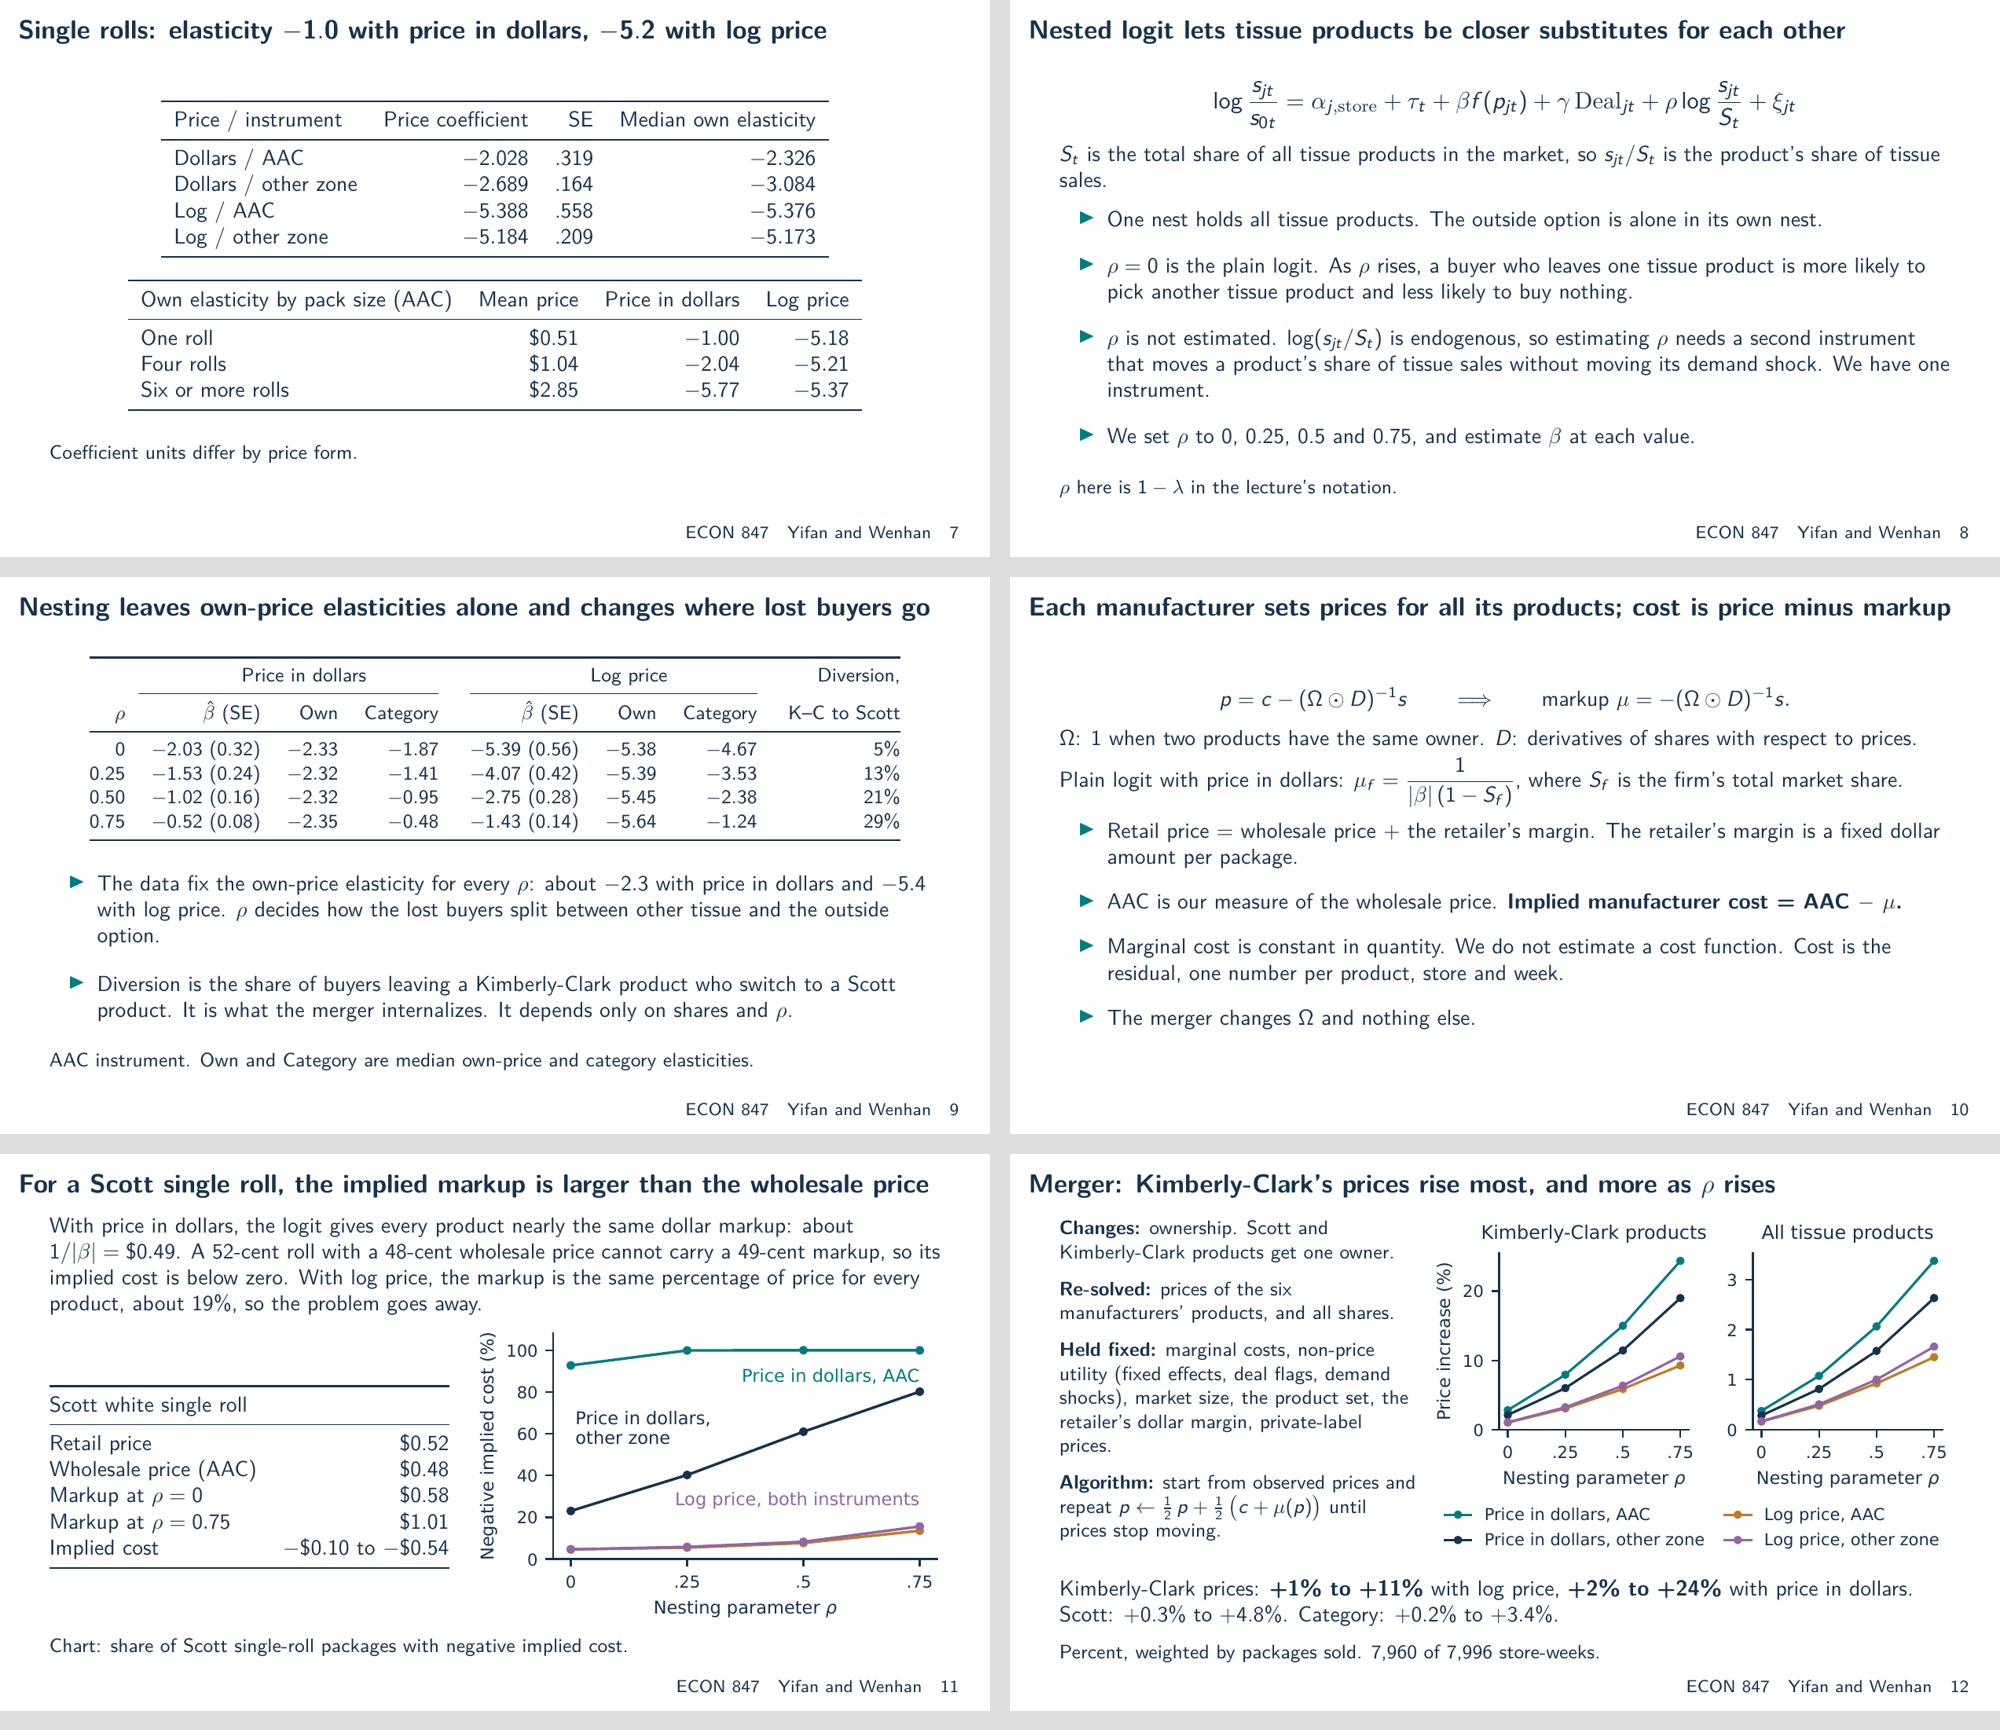
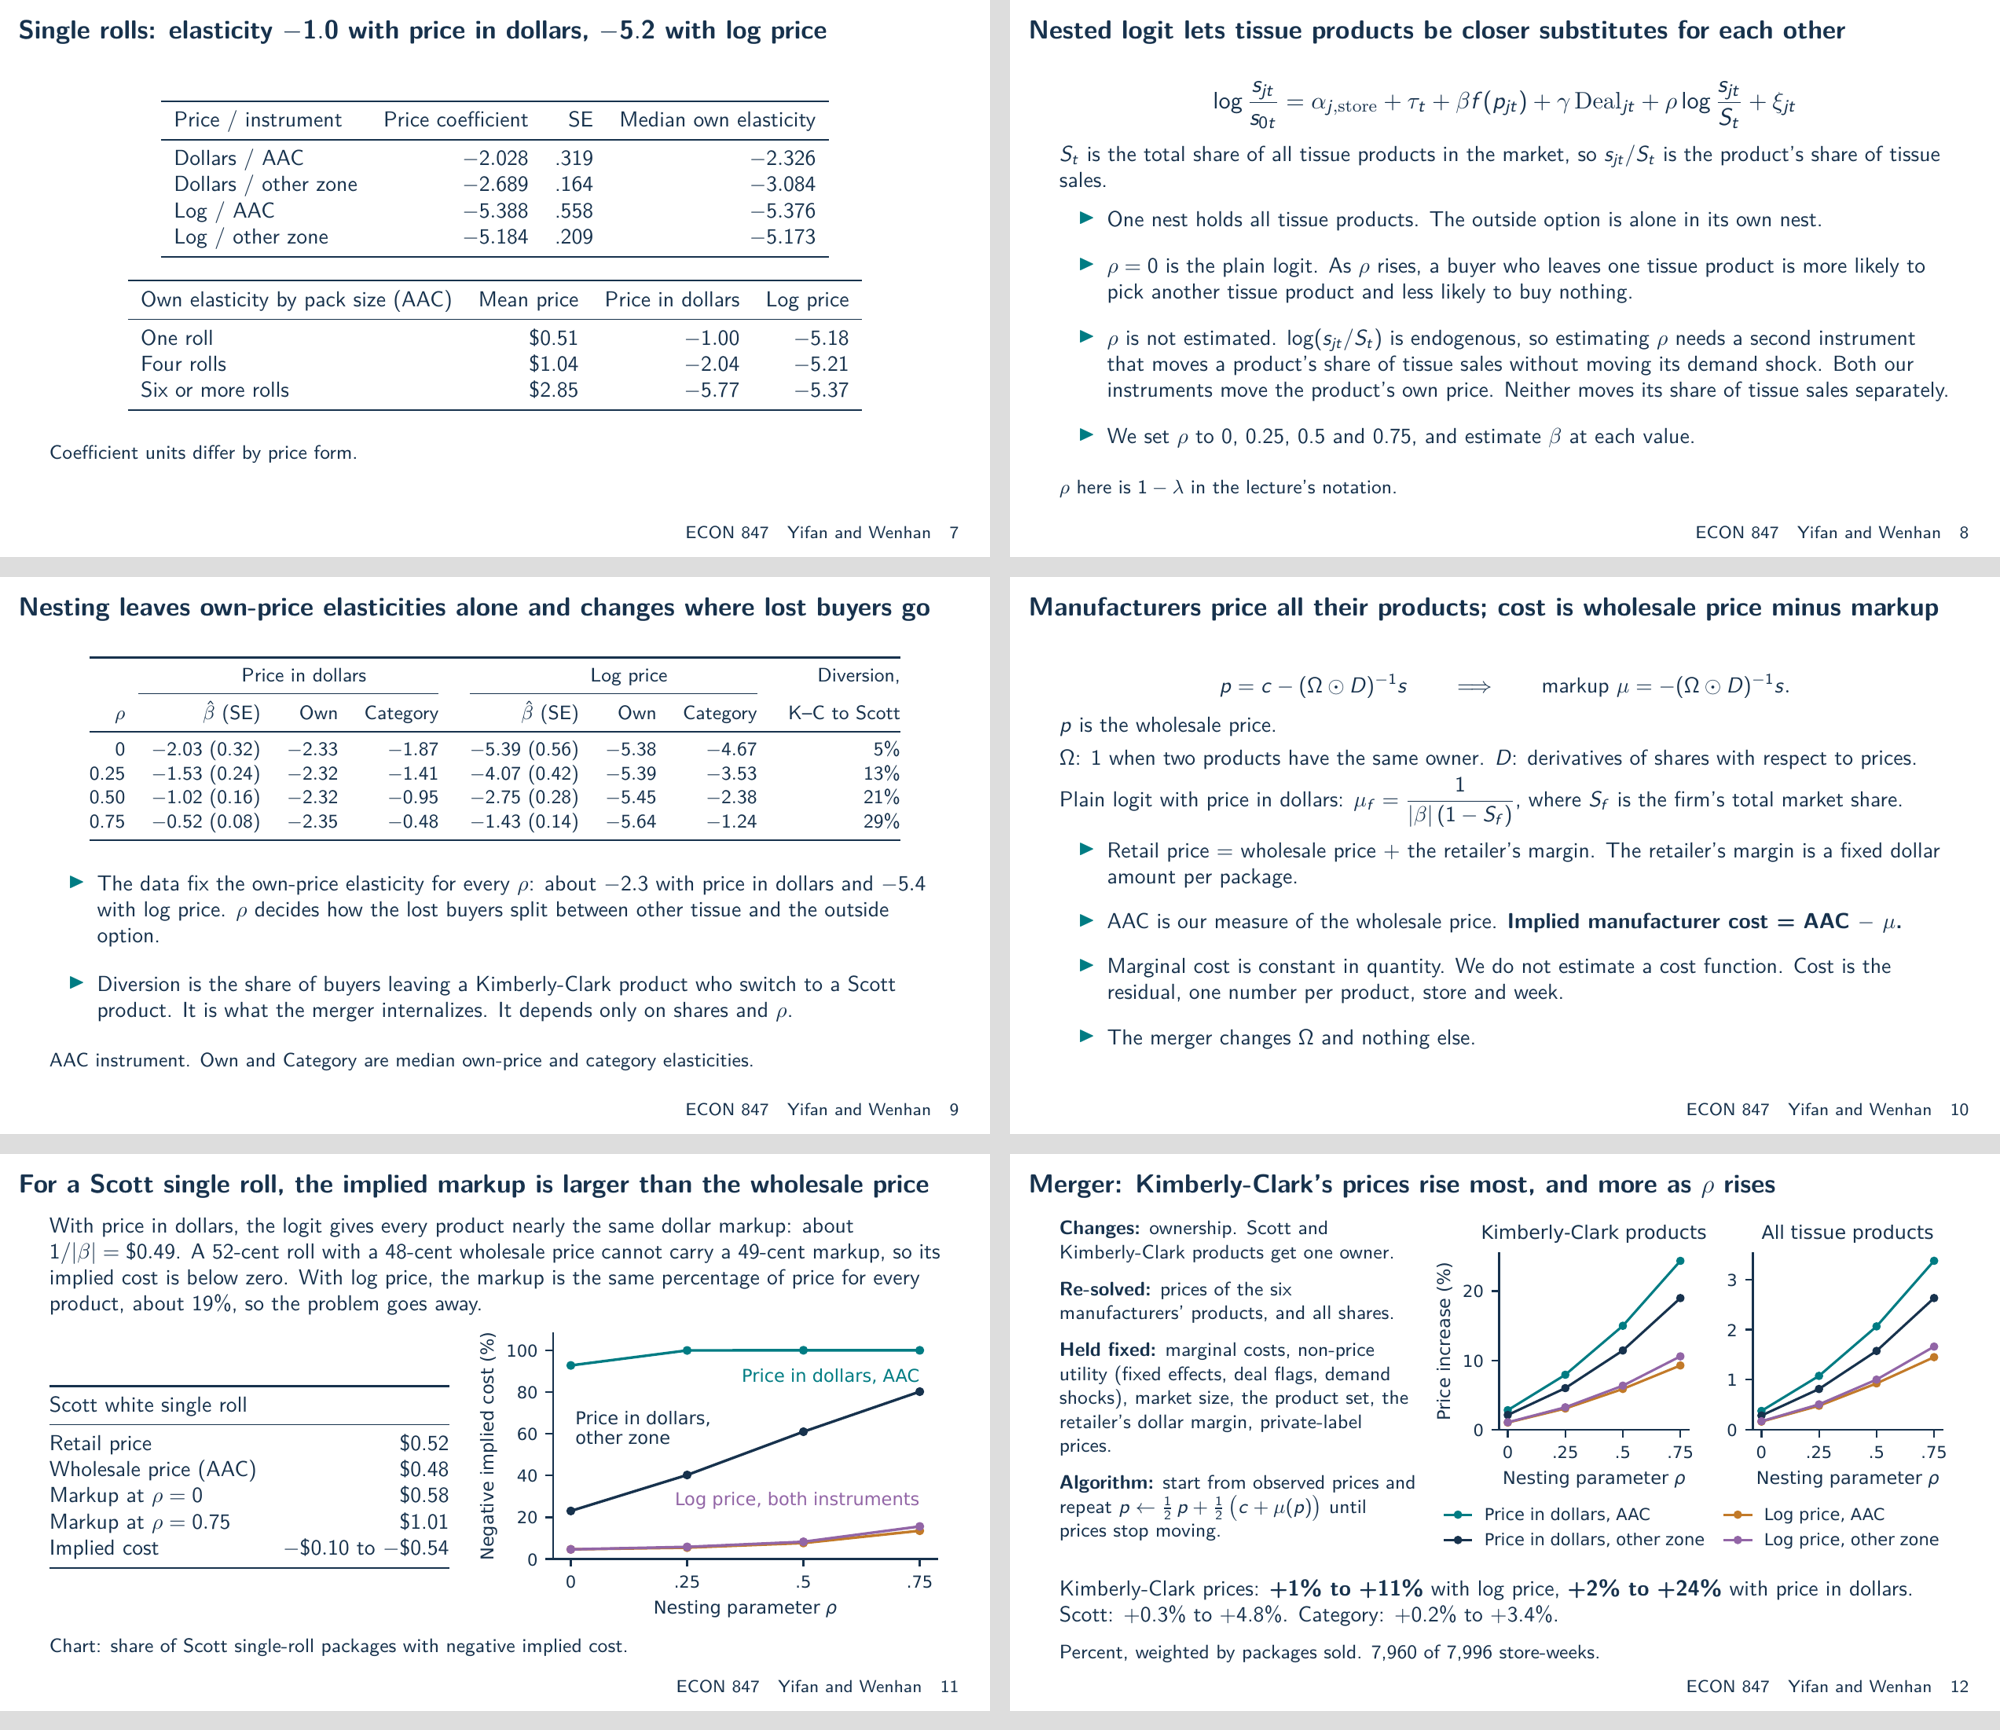
Revision 03 deck: three wording fixes and a recomputed cost example check
- Slide 10: title says cost is wholesale price minus markup, and a line under
  the formula says p is the wholesale price.
- Slide 8: say both instruments move the product's own price and neither
  moves its share of tissue sales separately. Speaker notes match.
- Backup B1: "32 UPCs sold" instead of "32 UPCs on sale".
- check_deck.py now recomputes the Scott white example on slide 11 from the
  saved markups.

No number changed. PDF rebuilt with no layout warnings, previews re-rendered,
validation record and changelog updated.

diff --git a/Presentation/2026-11-23/revision_03/check_deck.py b/Presentation/2026-11-23/revision_03/check_deck.py
@@ -86,6 +86,28 @@ assert f'{1 / abs(beta_dollar):.2f}' == '0.49' and f'{100 / abs(beta_log):.0f}' 
 need('1/|\\beta|=\\$0.49')
 need('about 19\\%')
 
+# Slide 11: the Scott white example, recomputed from the saved markups. Package-weighted means over
+# the store-weeks that solved in every scenario, price in dollars with the AAC instrument.
+import numpy as np
+RUN = ROOT / 'Analysis/calibrated_merger_v5/runs/2026-11-15_16cell_01'
+inputs = pd.read_csv(RUN / 'product_inputs.csv.gz')
+market = pd.factorize(inputs.market_id)[0]
+solved = np.logical_and.reduce([pd.read_csv(f).numerical_ok.to_numpy() for f in sorted((RUN / 'cells').glob('*/*_markets.csv.gz'))])
+rows = (inputs.upc.to_numpy() == 5400041500) & solved[market]
+weight = inputs.move.to_numpy(float)[rows]
+price = np.average(inputs.price_pack.to_numpy()[rows], weights=weight)
+aac = np.average(inputs.aac_pack.to_numpy()[rows], weights=weight)
+markup = {}
+for tag in ['rho00', 'rho75']:
+    with np.load(RUN / 'cells' / f'linear__aac__{tag}' / 'dollar_simulation.npz') as z:
+        markup[tag] = np.average(z['markup'][rows], weights=weight)
+scott_white = dict(price=price, aac=aac, markup_rho0=markup['rho00'], markup_rho75=markup['rho75'],
+                   cost_rho0=aac - markup['rho00'], cost_rho75=aac - markup['rho75'])
+shown = dict(price=0.52, aac=0.48, markup_rho0=0.58, markup_rho75=1.01, cost_rho0=-0.10, cost_rho75=-0.54)
+assert all(round(scott_white[k], 2) == v for k, v in shown.items()), scott_white
+for text in ['Retail price & \\$0.52', 'Wholesale price (AAC) & \\$0.48', '$\\rho=0$ & \\$0.58', '$\\rho=0.75$ & \\$1.01', '$-\\$0.10$ to $-\\$0.54$']:
+    need(text)
+
 # Backups: retailer rule, store 124, consumer surplus.
 both = pd.read_csv(T / 'merger_price_effects.csv')
 for cell in ['linear__aac__rho00', 'linear__other_zone__rho00', 'log__aac__rho00', 'log__other_zone__rho00']:
@@ -108,7 +130,8 @@ outside = [x for x in status if not x[3:].startswith(('Presentation/2026-11-23/r
 assert not outside, outside
 
 result = dict(pdf_pages=pages, main_slides=main_frames, backup_slides=backup_frames, layout_warnings=0,
-              slide_numbers_match_saved_results=True, protected_research_files=len(before), research_files_unchanged=True,
+              slide_numbers_match_saved_results=True, scott_white_example={k: round(float(x), 4) for k, x in scott_white.items()},
+              protected_research_files=len(before), research_files_unchanged=True,
               tracked_files_outside_revision_03_and_docs_changed=0, estimation_or_solves=0, presenter_rehearsal=False,
               pdf_sha256=hashlib.sha256((HERE / 'presentation.pdf').read_bytes()).hexdigest())
 (HERE / 'validation.json').write_text(json.dumps(result, indent=2))

diff --git a/Presentation/2026-11-23/revision_03/main.tex b/Presentation/2026-11-23/revision_03/main.tex
@@ -137,7 +137,7 @@ Six or more rolls & \$2.85 & $-5.77$ & $-5.37$\\\bottomrule
 \begin{itemize}\setlength\itemsep{2.2mm}
 \item One nest holds all tissue products. The outside option is alone in its own nest.
 \item $\rho=0$ is the plain logit. As $\rho$ rises, a buyer who leaves one tissue product is more likely to pick another tissue product and less likely to buy nothing.
-\item $\rho$ is not estimated. $\log(s_{jt}/S_t)$ is endogenous, so estimating $\rho$ needs a second instrument that moves a product's share of tissue sales without moving its demand shock. We have one instrument.
+\item $\rho$ is not estimated. $\log(s_{jt}/S_t)$ is endogenous, so estimating $\rho$ needs a second instrument that moves a product's share of tissue sales without moving its demand shock. Both our instruments move the product's own price. Neither moves its share of tissue sales separately.
 \item We set $\rho$ to 0, 0.25, 0.5 and 0.75, and estimate $\beta$ at each value.
 \end{itemize}
 \captiontext{$\rho$ here is $1-\lambda$ in the lecture's notation.}
@@ -164,13 +164,14 @@ $\rho$ & $\hat\beta$ (SE) & Own & Category & $\hat\beta$ (SE) & Own & Category &
 \end{frame}
 
 % ---------------------------------------------------------------- 10 (Yifan)
-\begin{frame}{Each manufacturer sets prices for all its products; cost is price minus markup}
+\begin{frame}{Manufacturers price all their products; cost is wholesale price minus markup}
 \small
 \[
 p=c-(\Omega\odot D)^{-1}s
 \qquad\Longrightarrow\qquad
 \text{markup }\mu=-(\Omega\odot D)^{-1}s .
 \]
+$p$ is the wholesale price.\par\smallskip
 $\Omega$: 1 when two products have the same owner. $D$: derivatives of shares with respect to prices.\par\smallskip
 Plain logit with price in dollars: $\displaystyle\mu_f=\frac{1}{|\beta|\,(1-S_f)}$, where $S_f$ is the firm's total market share.
 \begin{itemize}\setlength\itemsep{2mm}
@@ -236,7 +237,7 @@ until prices stop moving.
 
 \begin{frame}{A typical market: many products, each with a small share}
 \centering\includegraphics[width=.84\textwidth]{figures/typical_market.pdf}
-\captiontext{Store 72, week of May 2, 1991: 32 UPCs on sale; 86.7\% of shopping trips bought no tissue.}
+\captiontext{Store 72, week of May 2, 1991: 32 UPCs sold; 86.7\% of shopping trips bought no tissue.}
 \end{frame}
 
 \begin{frame}{One store-week sold as many packages as it had shopping trips}

diff --git a/docs/validation/2026-11-22-slide-revision-03.md b/docs/validation/2026-11-22-slide-revision-03.md
@@ -18,6 +18,22 @@ Branch / commit: `codex/deliv-001-beamer` at `df42368`, plus the additions liste
 | Notes' figures against saved results | 1/\|β\| = \$0.49; log-price markup 19%; non-negative cost for 92.5% to 98.3% of packages under log price; pack size is 92% of price variance, stores 0.2%; first-stage F equals the saved Wald statistic | `tables/cost_check.csv`, `tables/price_variation.json`, `tables/first_stage.csv` |
 | Lecture notation | ρ = 1 − λ and p = −(Ω ⊙ D)⁻¹s + c confirmed in the course slides | `02Demand_Lecture.pdf`, `03Supply_Lecture.pdf` (outside this repository) |
 
+## Wording follow-up, same day
+
+Three wording changes after Yifan's check of the deck, made on `main` at `38dec19`. No number changed.
+
+- Slide 10: the title is now "Manufacturers price all their products; cost is wholesale price minus markup", and a line under the formula says p is the wholesale price. The longer title first tried wrapped to two lines.
+- Slide 8: "We have one instrument" became "Both our instruments move the product's own price. Neither moves its share of tissue sales separately." The speaker-note answer on estimating ρ matches.
+- Backup B1: "32 UPCs on sale" became "32 UPCs sold".
+
+| Command or check | Outcome | Evidence |
+|---|---|---|
+| `latexmk` rebuild, same command | Exit 0; 18 pages; no layout warnings | `revision_03/build/main.log` (not tracked) |
+| `render_previews.py`, same command | 18 slide images and 3 contact sheets re-rendered from the new PDF; slides 8, 10 and B1 inspected | `revision_03/previews/` |
+| `check_deck.py`, same command | Passed. It now recomputes the Scott white example from the saved markups: price 0.5248, AAC 0.4783, markup 0.5821 and 1.0134, cost −0.1038 and −0.5351 | `revision_03/validation.json` |
+
+The 369 research files are still byte-identical, and no estimation or price solve ran. `revision_02` has no differences from the commit. In the working copy, 21 of its text files now have LF line endings where they had CRLF before: Git rewrote them when the branch was checked out between the two rounds. Their content is the same.
+
 ## Preservation
 
 No estimation and no price solve ran. `check_deck.py` re-hashed the 369 files under Analysis, Archive, Data and Paper: unchanged. `git status` shows changes only under `Presentation/2026-11-23/revision_03/`, `docs/` and the root README. All 71 files in `revision_02`, including its untracked build and rendered folders, match SHA-256 hashes taken before work began. The first-draft PDF hash is unchanged.
@@ -26,5 +42,5 @@ No estimation and no price solve ran. `check_deck.py` re-hashed the 369 files un
 
 - Slides were inspected as rendered images on this machine, not on the classroom projector.
 - No human has rehearsed or timed this version.
-- The Scott white example values come from the earlier diagnosis report and were not recomputed.
+- The Scott white example was carried over from the earlier diagnosis report in the first build; the follow-up check above recomputes it.
 - No Mac build was attempted.

diff --git a/Presentation/2026-11-23/revision_03/SPEAKER_NOTES.md b/Presentation/2026-11-23/revision_03/SPEAKER_NOTES.md
@@ -20,7 +20,7 @@ Handoff line: "So the two price forms disagree most for cheap single rolls. Yifa
 
 | Slide | Min | Say | Likely question and answer |
 |---|---:|---|---|
-| 8 Nested logit | 2.5 | Plain logit sends a lost buyer to every other option in proportion to its share, and the outside option has 87%. One nest for all tissue fixes that. ρ = 0 is plain logit; higher ρ keeps more lost buyers inside tissue. We do not estimate ρ: its regressor is endogenous and we have one instrument. We set it to four values. | *Why not estimate ρ?* It needs a second instrument that moves a product's share of tissue sales without moving its demand shock. The usual choice is the number of rival products in the market. We did not have one we trusted, so we set ρ and show how the answer moves with it. |
+| 8 Nested logit | 2.5 | Plain logit sends a lost buyer to every other option in proportion to its share, and the outside option has 87%. One nest for all tissue fixes that. ρ = 0 is plain logit; higher ρ keeps more lost buyers inside tissue. We do not estimate ρ: its regressor is endogenous, and both our instruments only move the product's own price. We set it to four values. | *Why not estimate ρ?* Both our instruments, AAC and the other-zone price, shift the product's own price. Identifying ρ needs something that moves a product's share of tissue sales with its own price held fixed, such as rivals' costs or the number of rival products. We do not have that, so we set ρ and show how the answer moves with it. |
 | 9 Nested results | 2 | Own-price elasticity does not move with ρ. Category elasticity falls, and diversion from Kimberly-Clark to Scott rises from 5% to 29%. Diversion is what a merger internalizes. | *Why does β fall as ρ rises?* The own elasticity is pinned by the data; a higher ρ needs a smaller β to give the same elasticity. |
 | 10 Supply | 2.5 | The lecture's multiproduct formula. The manufacturer's price is the wholesale price; the retailer adds a fixed dollar margin. Markup comes from demand and ownership. Cost is AAC minus markup, one number per product, store and week. The merger changes the ownership matrix and nothing else. | *Is the retailer passive?* Yes, by assumption. The backup shows a percentage margin instead; the merger effects barely change. |
 | 11 Implied costs | 2.5 | Read the first paragraph. Then the example: price 52 cents, wholesale 48 cents, markup 58 cents, so cost is −10 cents. With price in dollars almost all Scott single rolls fail. With log price few do. | *Why is Scott's markup 58 cents and not 49?* 49 cents is for a firm with a tiny share. Scott's share raises it: 1 / (|β|(1 − S)). |

diff --git a/docs/CHANGELOG.md b/docs/CHANGELOG.md
@@ -3,6 +3,7 @@
 ## 2026-11-22
 
 - DELIV-001 revision 03 (Yifan / Claude): built a thirteen-slide deck with five backups in `Presentation/2026-11-23/revision_03/` from Yifan's slide revision notes. Nested logit gets two slides; the supply, cost, merger and conclusion slides are rewritten; wording is plain and figures are redrawn at slide size. No number changed; no estimation or price solve ran. Revision 02 and the first draft are untouched. See the [handoff](handoffs/2026-11-22-yifan-slide-revision-03.md) and [validation](validation/2026-11-22-slide-revision-03.md).
+- DELIV-001 revision 03 wording follow-up (Yifan / Claude): slide 10 now says cost is wholesale price minus markup and that p is the wholesale price; slide 8 says both instruments move the own price and neither moves the share of tissue sales separately; backup B1 says "32 UPCs sold". Speaker notes match. `check_deck.py` now recomputes the Scott white example from the saved markups. PDF rebuilt with no layout warnings, previews re-rendered. No number changed.
 
 ## 2026-11-15
 
